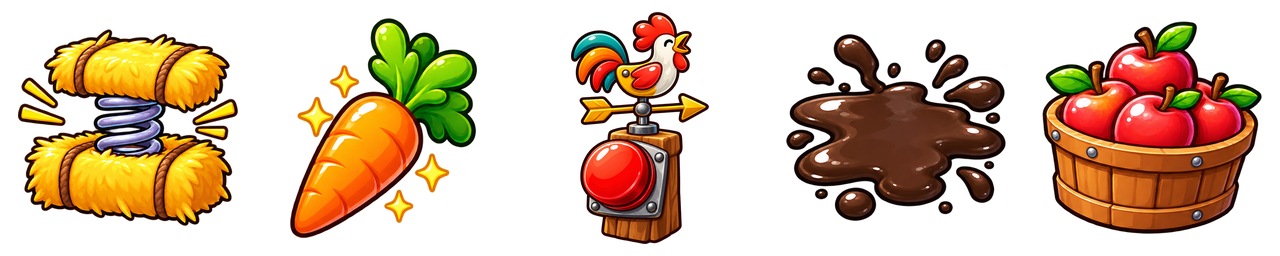
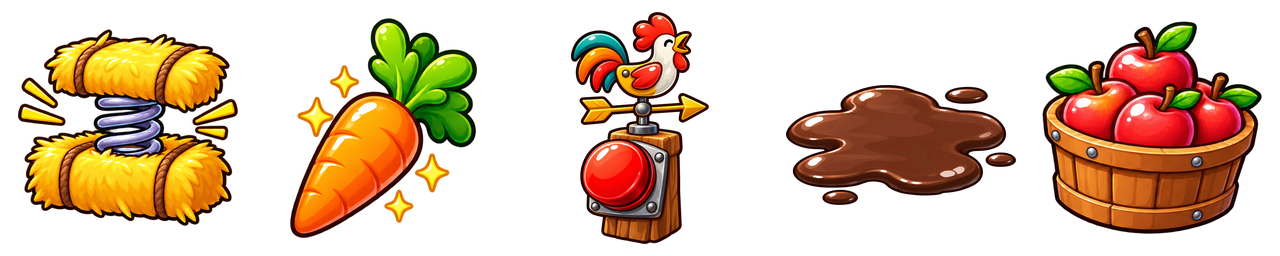
Redraw Farm, Moon Base and Woods ground puddles; cell alpha checks, 36 unit and 57 silent browser tests pass

Changed region(s): [[0.5938, 0.125, 0.8125, 0.875]]

diff --git a/americangirldollrace/tools/tracks/puddles-low-angle/build.py b/americangirldollrace/tools/tracks/puddles-low-angle/build.py
@@ -1,0 +1,43 @@
+"""Uniformly pack reviewed low-angle puddles; change only oil cell3."""
+from pathlib import Path
+import sys,json,hashlib
+import numpy as np
+from PIL import Image
+from scipy.ndimage import label,find_objects
+
+HERE=Path(__file__).resolve().parent;GAME=HERE.parents[2]
+KEYS=['farm','horseshow','space','woods','clouds','winter','beach']
+
+def main_pool(im):
+    labels,count=label(np.array(im)[:,:,3]>64)
+    areas=np.bincount(labels.ravel());areas[0]=0
+    s=find_objects(labels)[int(areas.argmax())-1]
+    return (s[1].start,s[0].start,s[1].stop,s[0].stop)
+
+def build(key):
+    path=HERE/f'sources/{key}.webp';src=Image.open(path).convert('RGBA')
+    a=np.array(src);a[a[:,:,3]<=12]=0;src=Image.fromarray(a)
+    b=src.getbbox();pool=main_pool(src);ratio=(pool[3]-pool[1])/(pool[2]-pool[0])
+    assert .48<=ratio<=.62,(key,'angle outside reviewed range',ratio)
+    assert b[0]>0 and b[1]>0 and b[2]<src.width and b[3]<src.height
+    scale=220/(pool[2]-pool[0])
+    art=src.crop(b).resize((round((b[2]-b[0])*scale),round((b[3]-b[1])*scale)),Image.Resampling.LANCZOS)
+    x=round(128-((pool[0]+pool[2])/2-b[0])*scale)
+    y=round(140-((pool[1]+pool[3])/2-b[1])*scale)
+    assert x>0 and y>0 and x+art.width<256 and y+art.height<256
+    cell=Image.new('RGBA',(256,256));cell.alpha_composite(art,(x,y))
+    before=Image.open(HERE/f'before/{key}.webp').convert('RGBA');out=before.copy();out.paste(cell,(768,0))
+    target=GAME/f'assets/tracks/{key}/powerups.webp';out.save(target,'WEBP',lossless=True,exact=True,method=6)
+    out=Image.open(target).convert('RGBA')
+    for n in [0,1,2,4]:
+        box=(n*256,0,(n+1)*256,256)
+        assert np.array_equal(np.array(before.crop(box)),np.array(out.crop(box)))
+    report={'track':key,'changedCell':3,'unchangedCells':[0,1,2,4],'sourceBounds':b,'mainPoolSourceBounds':pool,
+            'mainPoolHeightOverWidth':ratio,'uniformScale':scale,'offset':[x,y],'mainPoolCenter':[128,140],
+            'mainPoolTargetWidth':220,'cellBounds':cell.getbbox(),'sheetSize':out.size,
+            'sha256':hashlib.sha256(target.read_bytes()).hexdigest()}
+    (HERE/f'reports/{key}.json').write_text(json.dumps(report,indent=2)+'\n')
+    print(key,round(ratio,3),'other four cells pixel-identical')
+
+if __name__=='__main__':
+    for key in sys.argv[1:] or KEYS:build(key)

diff --git a/americangirldollrace/tools/tracks/puddles-low-angle/check.py b/americangirldollrace/tools/tracks/puddles-low-angle/check.py
@@ -1,0 +1,21 @@
+"""Validate delivered puddle sheets and cell-isolation evidence."""
+from pathlib import Path
+import json,hashlib
+import numpy as np
+from PIL import Image
+
+HERE=Path(__file__).resolve().parent;GAME=HERE.parents[2]
+for path in sorted((HERE/'reports').glob('*.json')):
+    report=json.loads(path.read_text());key=report['track']
+    target=GAME/f'assets/tracks/{key}/powerups.webp'
+    im=Image.open(target).convert('RGBA');before=Image.open(HERE/f'before/{key}.webp').convert('RGBA')
+    assert im.size==(1280,256)
+    assert hashlib.sha256(target.read_bytes()).hexdigest()==report['sha256']
+    assert .48<=report['mainPoolHeightOverWidth']<=.62
+    for n in [0,1,2,4]:
+        b=(n*256,0,(n+1)*256,256)
+        assert np.array_equal(np.array(im.crop(b)),np.array(before.crop(b)))
+    a=np.array(im.crop((768,0,1024,256)))[:,:,3]
+    assert a.min()==0 and a.max()>200
+    assert not a[0].any() and not a[-1].any() and not a[:,0].any() and not a[:,-1].any()
+    print(key,'angle, alpha/margins, hash and unchanged four cells passed')

diff --git a/americangirldollrace/tools/tracks/puddles-low-angle/README.md b/americangirldollrace/tools/tracks/puddles-low-angle/README.md
@@ -1,0 +1,9 @@
+# Low-angle puddle art handoff
+
+Built-in ImageGen repainted each requested icon using the original oil pool for camera/footprint and the themed cell for material/color. generation.json retains exact prompts and corrections. sources/ holds accepted art; references/ the inputs; before/ preserves original decoded sheets for cell-isolation checks.
+
+Only oil cell3 (x768–1023) is replaced. Uniform resampling only; each source main pool is220px wide in its256px cell, centered128140. The exporter does not stretch geometry. A connected-component measurement excludes detached ground droplets; the reviewed approximate0.55 target accepts0.48–0.62, with exact per-source ratios recorded in reports/. All other four cells remain RGBA pixel-identical after lossless WebP export.
+
+Batch1: Farm mud0.502, Moon Base goo0.601, Fairy Woods bog0.519. No flying splashes or standing grass. review-farm-space-woods.webp compares before/after through actual drawPowerupIcon at68px, plus native256px cells on their track ground. Test rig is silent and loads no audio scripts.
+
+Rebuild: python3 americangirldollrace/tools/tracks/puddles-low-angle/build.py <track keys>. Art-only delivery; gameplay agent bumps each track's powerupArtVersion. Existing pickup labels/behavior stay with that agent.

diff --git a/americangirldollrace/image-requests.md b/americangirldollrace/image-requests.md
@@ -1352,3 +1352,5 @@ cells. In the same commit bump each changed track's `powerupArtVersion` in
 Acceptance: at race size (about 68 px across), each puddle reads as lying
 flat on the track like the black oil puddle, and a doll slides or sticks
 in it as before.
+
+**P1/P3/P4 art delivered (2026-10-24):** Farm mud, Moon Base goo and Fairy Woods bog oil cells redrawn at the oil ground angle, no flying splashes/upright grass. Measured main-pool height/width0.502/0.601/0.519. Only cell3 changed; other four cells RGBA pixel-identical. Sources, exact ImageGen prompts, deterministic exporter, reports and actual68px drawing review in `tools/tracks/puddles-low-angle/`. Art-only handoff: gameplay agent bumps powerupArtVersion for these tracks.
